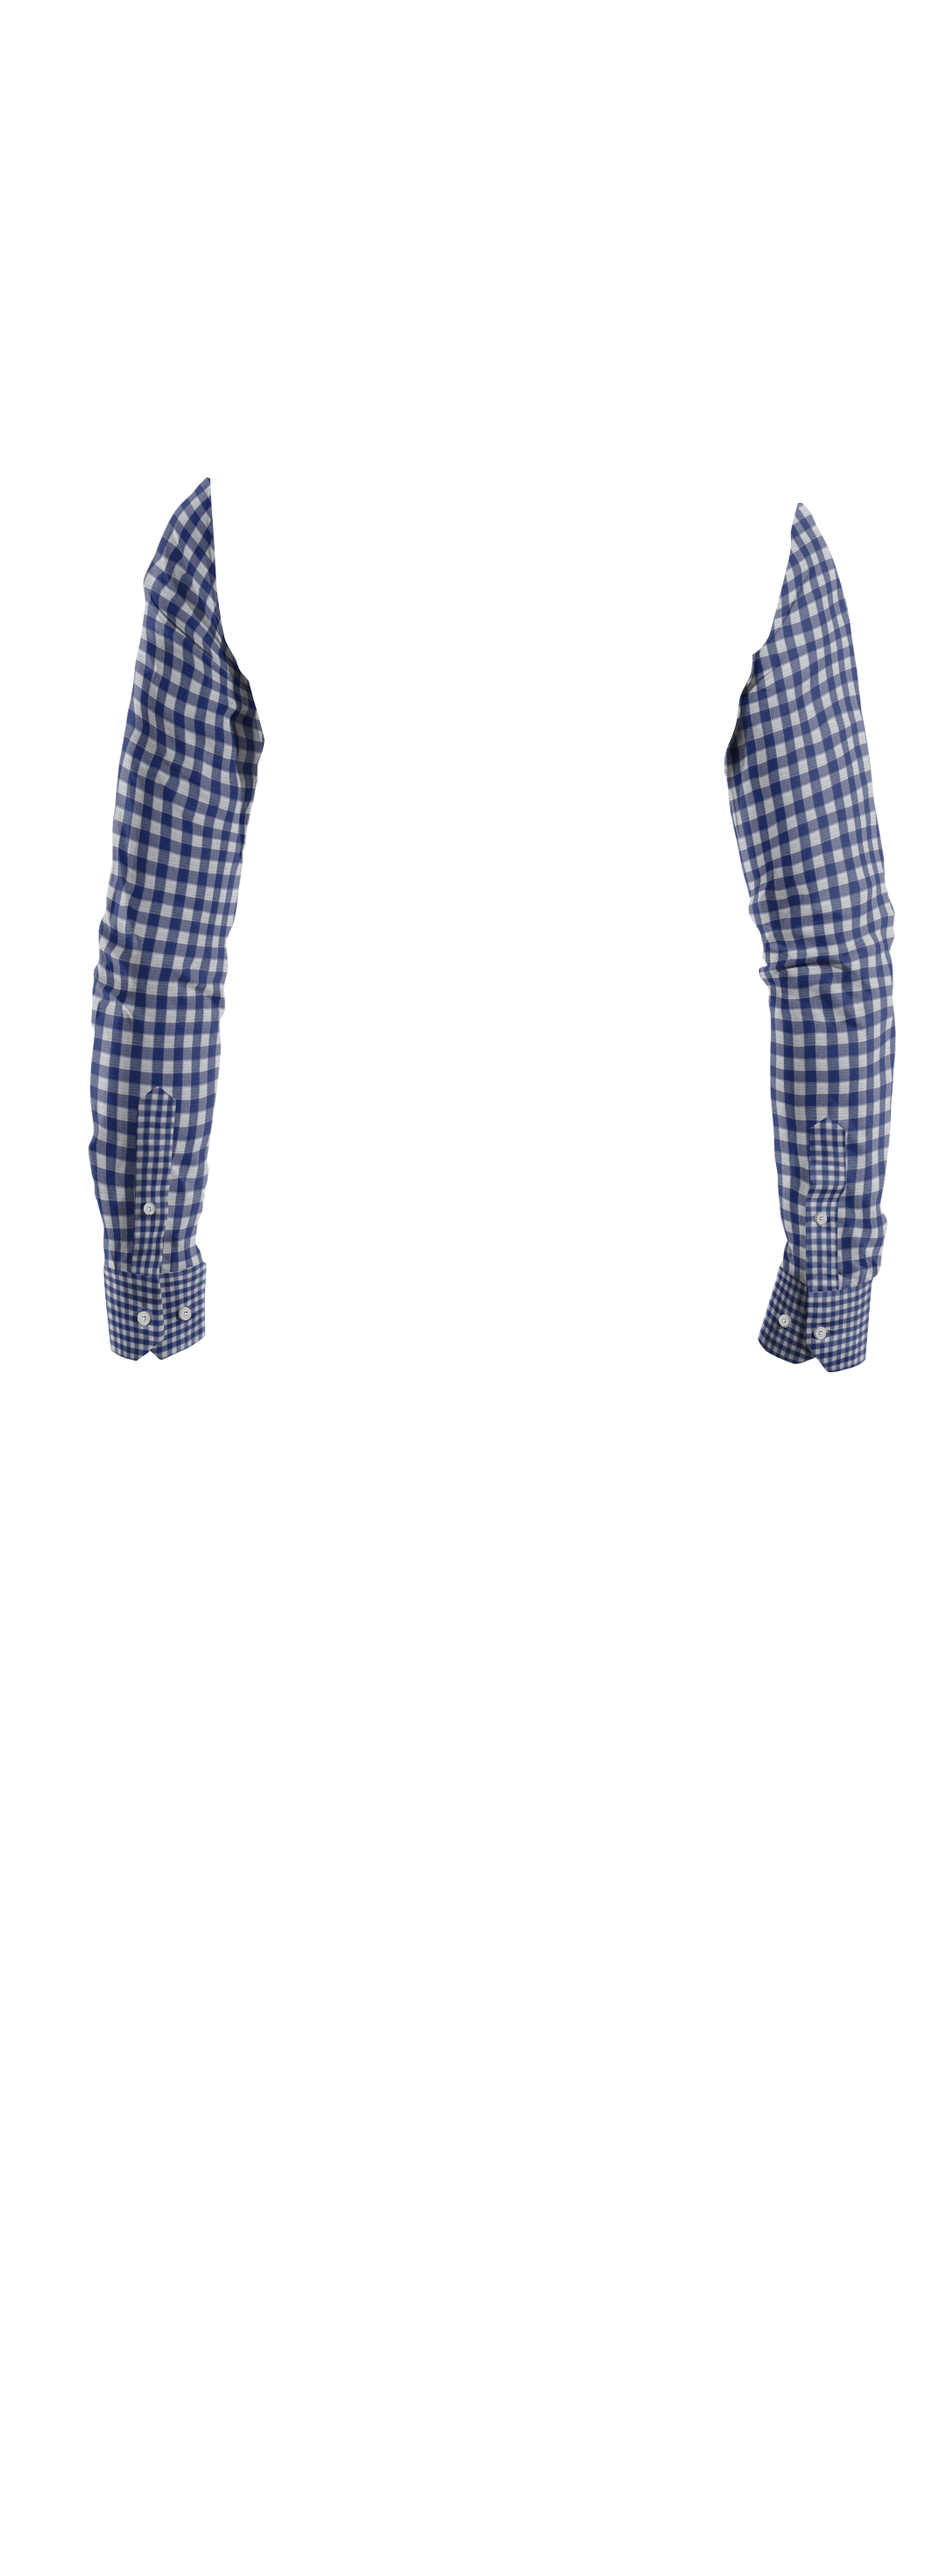
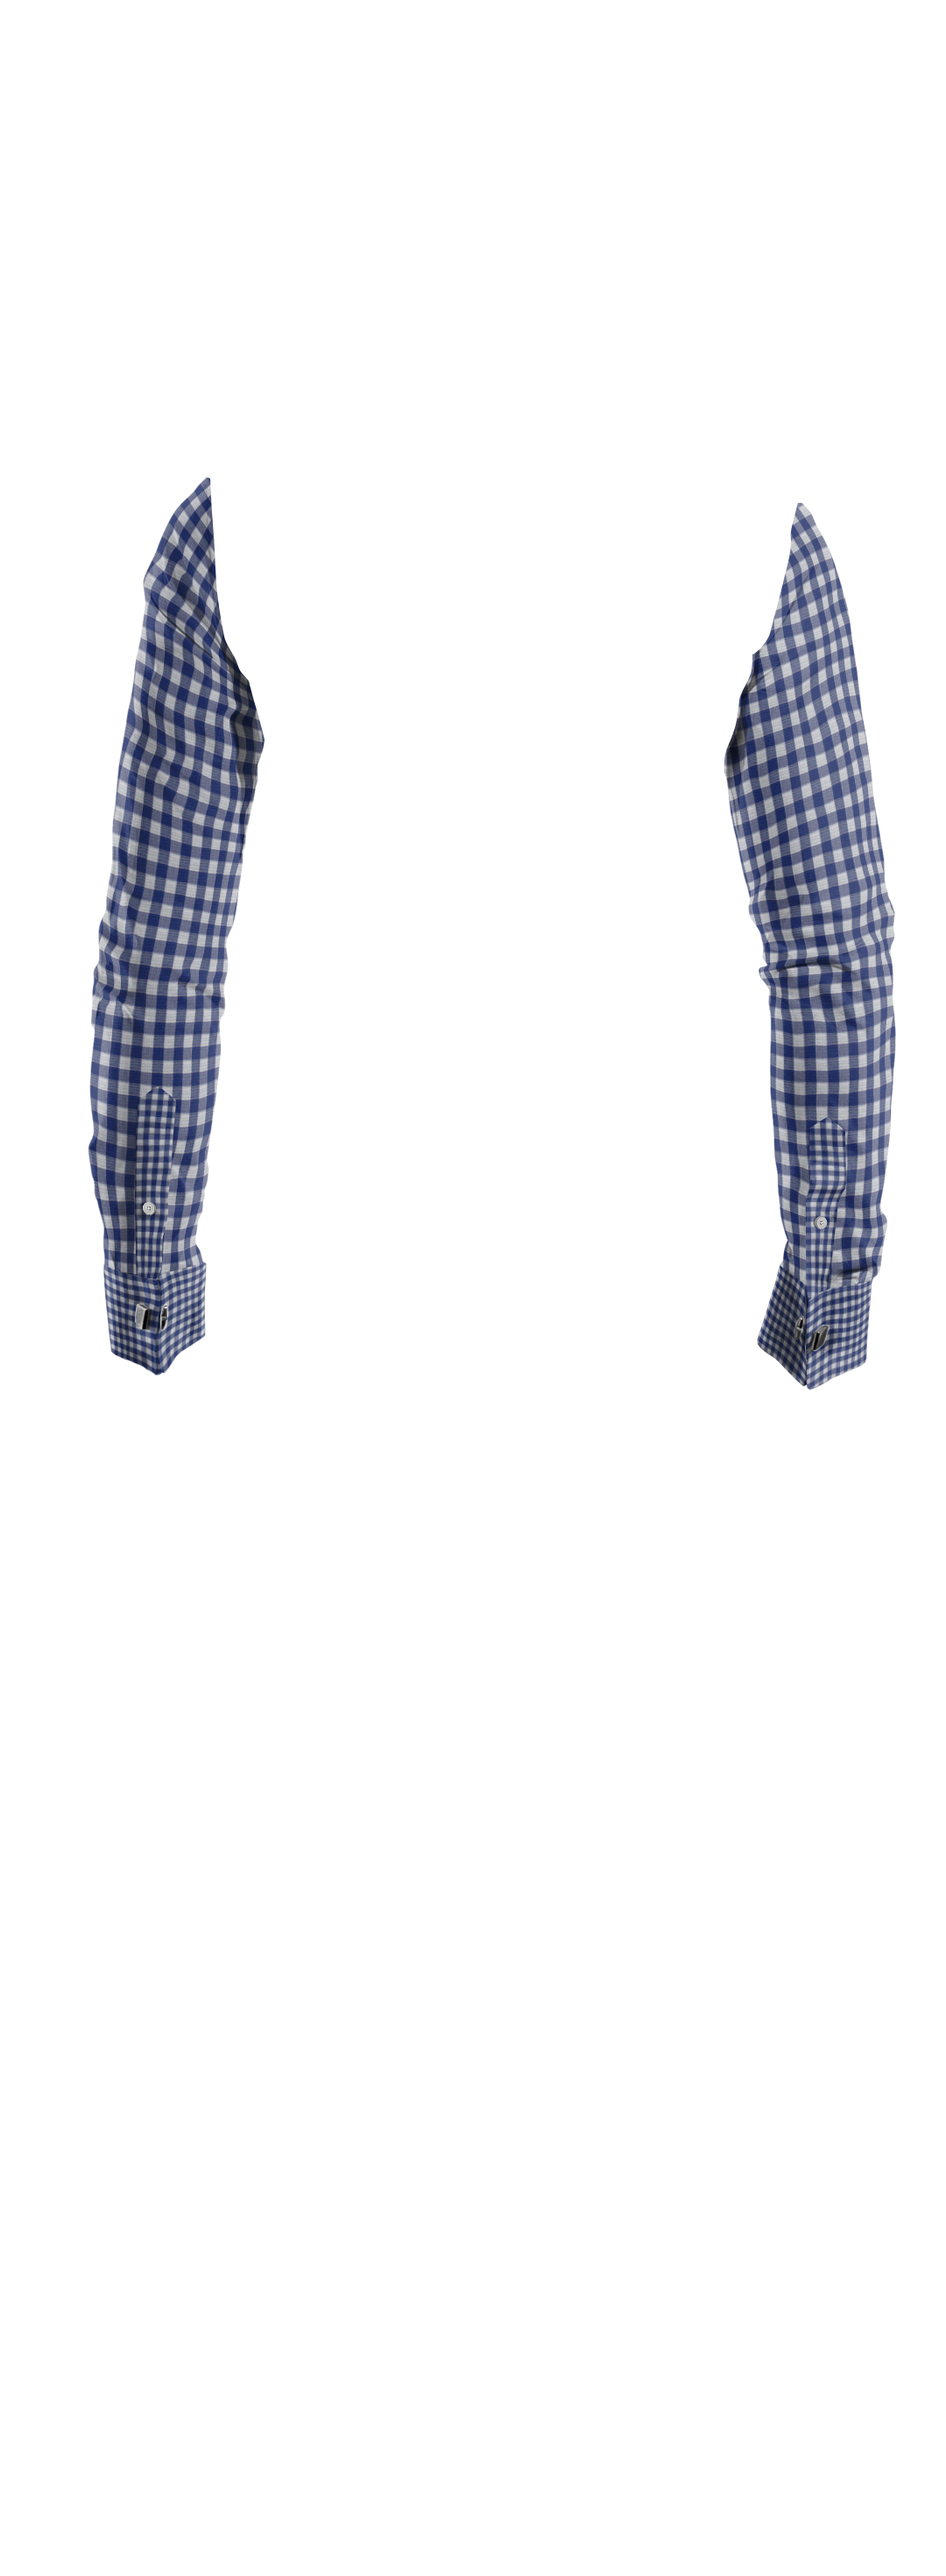
update: folded

Changed region(s): [[0.7944, 0.4643, 0.9167, 0.5571], [0.1222, 0.4643, 0.2139, 0.5571]]

diff --git a/components/partials/custom/modelContainer.jsx b/components/partials/custom/modelContainer.jsx
@@ -5,10 +5,11 @@ import { useEffect, useState } from 'react';
 const ModelContainer = ({ category, fabricSelect, styleSelect }) => {
     const [fit, setFit] = useState("Regular")
     const [sleeve, setSleeve] = useState("short")
-    const [collar, setCollar] = useState("Short")
+    const [collar, setCollar] = useState("Band")
     const [pocket, setPocket] = useState("No Pocket")
     const [placket, setPlacket] = useState("standard")
     const [pleat, setPleat] = useState("No Pleat")
+    const [pov, setPov] = useState('front')
     useEffect(() => {
         switch (styleSelect.title) {
             case "Fit":
@@ -36,100 +37,188 @@ const ModelContainer = ({ category, fabricSelect, styleSelect }) => {
     return (
         <div className="model-container row">
             {/* front */}
-            <div className="col-12">
-                <div className="img-container" style={{
-                    position: 'relative',
-                    zIndex: 1,
+            <div className='col-2 d-flex align-items-center' style={{ height: "80vh" }}>
+                <div onClick={() => {
+                    console.log(pov);
+                    switch (pov) {
+                        case "front":
+                            setPov("folded")
+                            break;
+                        case "folded":
+                            setPov("back")
+                            break;
+                        case "back":
+                            setPov("front")
+                            break;
+                        default:
+                            break;
+                    }
                 }}>
-                    {/* model */}
-                    <div style={{ zIndex: 2, position: 'absolute' }}>
-                        <Image
-                            width={350} // 200 | 350 | 400 | 500 | 1080
-                            height={953} // 544 | 953 | 1089 | 1361 | 2940
-                            src="/img/custom/model_front.png"
-                            alt="laxmi" />
+                    <ChevronLeft width={20} height={20} />
+                </div>
+            </div>
+            <div className="col-8">
+                {/* front */}
+                <div className='slide' style={{ display: pov === "front" ? 'block' : 'none' }}>
+                    <div className="img-container" style={{
+                        position: 'relative',
+                        zIndex: 1,
+                    }}>
+                        {/* model */}
+                        <div style={{ zIndex: 2, position: 'absolute' }}>
+                            <Image
+                                width={350} // 200 | 350 | 400 | 500 | 1080
+                                height={953} // 544 | 953 | 1089 | 1361 | 2940
+                                src={`/img/custom/model_${pov}.png`}
+                                alt="laxmi" />
+                        </div>
+                        {/* body */}
+                        <div style={{ zIndex: 3, position: 'absolute' }}>
+                            <Image
+                                width={350} // 200 | 350 | 400 | 500 | 1080
+                                height={953} // 544 | 953 | 1089 | 1361 | 2940
+                                src={`/img/custom/${category}/${fabricSelect.title ?? "C-Blue"}/${pov}/${placket}/body/${fit}.png`}
+                                alt="laxmi" />
+                        </div>
+                        {/* collar */}
+                        <div style={{ zIndex: 4, position: 'absolute' }}>
+                            <Image
+                                width={350} // 200 | 350 | 400 | 500 | 1080
+                                height={953} // 544 | 953 | 1089 | 1361 | 2940
+                                src={`/img/custom/${category}/${fabricSelect.title ?? "C-Blue"}/${pov}/${placket}/collar/${collar}.png`}
+                                alt="laxmi" />
+                        </div>
+                        {/* sleeve */}
+                        <div style={{ zIndex: 5, position: 'absolute' }}>
+                            <Image
+                                width={350} // 200 | 350 | 400 | 500 | 1080
+                                height={953} // 544 | 953 | 1089 | 1361 | 2940
+                                src={`/img/custom/${category}/${fabricSelect.title ?? "C-Blue"}/${pov}/${placket}/sleeve/${sleeve}.png`}
+                                alt="laxmi" />
+                        </div>
+                        {/* pocket */}
+                        <div style={{ zIndex: 6, position: 'relative' }}>
+                            <Image
+                                width={350} // 200 | 350 | 400 | 500 | 1080
+                                height={953} // 544 | 953 | 1089 | 1361 | 2940
+                                src={`/img/custom/${category}/${fabricSelect.title ?? "C-Blue"}/${pov}/${placket}/pocket/${pocket}.png`}
+                                alt="laxmi" />
+                        </div>
+
                     </div>
-                    {/* body */}
-                    <div style={{ zIndex: 3, position: 'absolute' }}>
-                        <Image
-                            width={350} // 200 | 350 | 400 | 500 | 1080
-                            height={953} // 544 | 953 | 1089 | 1361 | 2940
-                            src={`/img/custom/${category}/${fabricSelect.title ?? "C-Blue"}/front/${placket}/body/${fit}.png`}
-                            alt="laxmi" />
+                </div>
+                {/* back */}
+                <div className='slide' style={{ display: pov === "back" ? 'block' : 'none' }}>
+                    <div className="img-container" style={{
+                        position: 'relative',
+                        zIndex: 1,
+                    }}>
+                        {/* model */}
+                        <div style={{ zIndex: 2, position: 'absolute' }}>
+                            <Image
+                                width={350} // 200 | 350 | 400 | 500 | 1080
+                                height={953} // 544 | 953 | 1089 | 1361 | 2940
+                                src={`/img/custom/model_${pov}.png`}
+                                alt="laxmi" />
+                        </div>
+                        {/* body */}
+                        <div style={{ zIndex: 3, position: 'absolute' }}>
+                            <Image
+                                width={350} // 200 | 350 | 400 | 500 | 1080
+                                height={953} // 544 | 953 | 1089 | 1361 | 2940
+                                src={`/img/custom/${category}/${fabricSelect.title ?? "C-Blue"}/${pov}/body/Regular.png`}
+                                alt="laxmi" />
+                        </div>
+                        {/* collar */}
+                        <div style={{ zIndex: 4, position: 'absolute' }}>
+                            <Image
+                                width={350} // 200 | 350 | 400 | 500 | 1080
+                                height={953} // 544 | 953 | 1089 | 1361 | 2940
+                                src={`/img/custom/${category}/${fabricSelect.title ?? "C-Blue"}/${pov}/collar/collar.png`}
+                                alt="laxmi" />
+                        </div>
+                        {/* sleeve */}
+                        <div style={{ zIndex: 5, position: 'relative' }}>
+                            <Image
+                                width={350} // 200 | 350 | 400 | 500 | 1080
+                                height={953} // 544 | 953 | 1089 | 1361 | 2940
+                                src={`/img/custom/${category}/${fabricSelect.title ?? "C-Blue"}/${pov}/sleeve/${sleeve}.png`}
+                                alt="laxmi" />
+                        </div>
                     </div>
-                    {/* collar */}
-                    <div style={{ zIndex: 4, position: 'absolute' }}>
-                        <Image
-                            width={350} // 200 | 350 | 400 | 500 | 1080
-                            height={953} // 544 | 953 | 1089 | 1361 | 2940
-                            src={`/img/custom/${category}/${fabricSelect.title ?? "C-Blue"}/front/${placket}/collar/${collar}.png`}
-                            alt="laxmi" />
-                    </div>
-                    {/* sleeve */}
-                    <div style={{ zIndex: 5, position: 'absolute' }}>
-                        <Image
-                            width={350} // 200 | 350 | 400 | 500 | 1080
-                            height={953} // 544 | 953 | 1089 | 1361 | 2940
-                            src={`/img/custom/${category}/${fabricSelect.title ?? "C-Blue"}/front/${placket}/sleeve/${sleeve}.png`}
-                            alt="laxmi" />
-                    </div>
-                    {/* pocket */}
-                    <div style={{ zIndex: 6, position: 'relative' }}>
-                        <Image
-                            width={350} // 200 | 350 | 400 | 500 | 1080
-                            height={953} // 544 | 953 | 1089 | 1361 | 2940
-                            src={`/img/custom/${category}/${fabricSelect.title ?? "C-Blue"}/front/${placket}/pocket/${pocket}.png`}
-                            alt="laxmi" />
+                </div>
+                {/* folded */}
+                <div className='slide' style={{ display: pov === "folded" ? 'block' : 'none' }}>
+                    <div className="img-container" style={{
+                        position: 'relative',
+                        zIndex: 1,
+                    }}>
+                        {/* model */}
+                        <div style={{ zIndex: 2, position: 'absolute' }}>
+                            <Image
+                                width={350} // 200 | 350 | 400 | 500 | 1080
+                                height={512} // 292 | 512 | 585 | 731 | 1579
+                                src={`/img/custom/model_${pov}.png`}
+                                alt="laxmi" />
+                        </div>
+                        {/* body */}
+                        <div style={{ zIndex: 3, position: 'absolute' }}>
+                            <Image
+                                width={350} // 200 | 350 | 400 | 500 | 1080
+                                height={512} // 292 | 512 | 585 | 731 | 1579
+                                src={`/img/custom/${category}/${fabricSelect.title ?? "C-Blue"}/${pov}/${placket}/body/${fit}.png`}
+                                alt="laxmi" />
+                        </div>
+                        {/* collar */}
+                        <div style={{ zIndex: 4, position: 'absolute' }}>
+                            <Image
+                                width={350} // 200 | 350 | 400 | 500 | 1080
+                                height={512} // 292 | 512 | 585 | 731 | 1579
+                                src={`/img/custom/${category}/${fabricSelect.title ?? "C-Blue"}/${pov}/${placket}/collar/${collar}.png`}
+                                alt="laxmi" />
+                        </div>
+                        {/* sleeve */}
+                        <div style={{ zIndex: 5, position: 'absolute' }}>
+                            <Image
+                                width={350} // 200 | 350 | 400 | 500 | 1080
+                                height={512} // 292 | 512 | 585 | 731 | 1579
+                                src={`/img/custom/${category}/${fabricSelect.title ?? "C-Blue"}/${pov}/${placket}/sleeve/${sleeve}.png`}
+                                alt="laxmi" />
+                        </div>
+                        {/* pocket */}
+                        <div style={{ zIndex: 6, position: 'relative' }}>
+                            <Image
+                                width={350} // 200 | 350 | 400 | 500 | 1080
+                                height={512} // 292 | 512 | 585 | 731 | 1579
+                                src={`/img/custom/${category}/${fabricSelect.title ?? "C-Blue"}/${pov}/${placket}/pocket/${pocket}.png`}
+                                alt="laxmi" />
+                        </div>
+
                     </div>
                 </div>
             </div>
-            {/* back */}
-            {/* <div className="col-6">
-                <div className="img-container" style={{
-                    position: 'relative',
-                    zIndex: 1,
+            <div className='col-2 d-flex align-items-center' style={{ height: "80vh" }}>
+                <div onClick={() => {
+                    switch (pov) {
+                        case "front":
+                            setPov("back")
+                            break;
+                        case "back":
+                            setPov("folded")
+                            break;
+                        case "folded":
+                            setPov("front")
+                            break;
+                        default:
+                            break;
+                    }
                 }}>
-                    
-                    <div style={{ zIndex: 2, position: 'absolute' }}>
-                        <Image
-                            width={350} // 200 | 350 | 400 | 500 | 1080
-                            height={953} // 544 | 953 | 1089 | 1361 | 2940
-                            src="/img/custom/model_back.png"
-                            alt="laxmi" />
-                    </div>
-                    
-                    <div style={{ zIndex: 3, position: 'absolute' }}>
-                        <Image
-                            width={350} // 200 | 350 | 400 | 500 | 1080
-                            height={953} // 544 | 953 | 1089 | 1361 | 2940
-                            src={`/img/custom/${category}/${fabricSelect.title ?? "C-Blue"}/back/body/${pleat}.png`}
-                            alt="laxmi" />
-                    </div>
-                    
-                    <div style={{ zIndex: 4, position: 'absolute' }}>
-                        <Image
-                            width={350} // 200 | 350 | 400 | 500 | 1080
-                            height={953} // 544 | 953 | 1089 | 1361 | 2940
-                            src={`/img/custom/${category}/${fabricSelect.title ?? "C-Blue"}/back/Collar/collar.png`}
-                            alt="laxmi" />
-                    </div>
-                    
-                    <div style={{ zIndex: 5, position: 'relative' }}>
-                        <Image
-                            width={350} // 200 | 350 | 400 | 500 | 1080
-                            height={953} // 544 | 953 | 1089 | 1361 | 2940
-                            src={`/img/custom/${category}/${fabricSelect.title ?? "C-Blue"}/back/sleeve/${sleeve}.png`}
-                            alt="laxmi" />
-                    </div>
-                   
+                    <ChevronRight width={20} height={20} />
                 </div>
-            </div> */}
-            <div className="d-flex justify-content-center nav-container w-100">
-                <div className="circle-nav active"></div>
-                <div className="circle-nav"></div>
-                <div className="circle-nav"></div>
             </div>
-        </div>
+
+
+        </div >
     )
 }
 

diff --git a/components/partials/custom/sidebar/dataSidebar.js b/components/partials/custom/sidebar/dataSidebar.js
@@ -66,21 +66,21 @@ export const ShirtListStyle = [
             },
         ]
     },
-    {
-        id: 3,
-        title: "Fit",
-        image: 'Fit',
-        list_category: [
-            {
-                name: "Regular",
-                image: "/img/custom/styles/fit/regular.jpg",
-            },
-            {
-                name: "Slim",
-                image: "/img/custom/styles/fit/slim.jpg",
-            },
-        ]
-    },
+    // {
+    //     id: 3,
+    //     title: "Fit",
+    //     image: 'Fit',
+    //     list_category: [
+    //         {
+    //             name: "Regular",
+    //             image: "/img/custom/styles/fit/regular.jpg",
+    //         },
+    //         {
+    //             name: "Slim",
+    //             image: "/img/custom/styles/fit/slim.jpg",
+    //         },
+    //     ]
+    // },
     {
         id: 4,
         title: "Bottom",
@@ -132,25 +132,25 @@ export const ShirtListStyle = [
             },
         ]
     },
-    {
-        id: 7,
-        title: "Pleats",
-        image: 'Pleats',
-        list_category: [
-            {
-                name: "Box Pleat",
-                image: "/img/custom/styles/pleats/box_pleat.jpg",
-            },
-            {
-                name: "Side Pleat",
-                image: "/img/custom/styles/pleats/side_pleat.jpg",
-            },
-            {
-                name: "No Pleat",
-                image: "/img/custom/styles/pleats/no_pleat.jpg",
-            },
-        ]
-    }
+    // {
+    //     id: 7,
+    //     title: "Pleats",
+    //     image: 'Pleats',
+    //     list_category: [
+    //         {
+    //             name: "Box Pleat",
+    //             image: "/img/custom/styles/pleats/box_pleat.jpg",
+    //         },
+    //         {
+    //             name: "Side Pleat",
+    //             image: "/img/custom/styles/pleats/side_pleat.jpg",
+    //         },
+    //         {
+    //             name: "No Pleat",
+    //             image: "/img/custom/styles/pleats/no_pleat.jpg",
+    //         },
+    //     ]
+    // }
 ]
 
 export const TrouserListStyle = [
